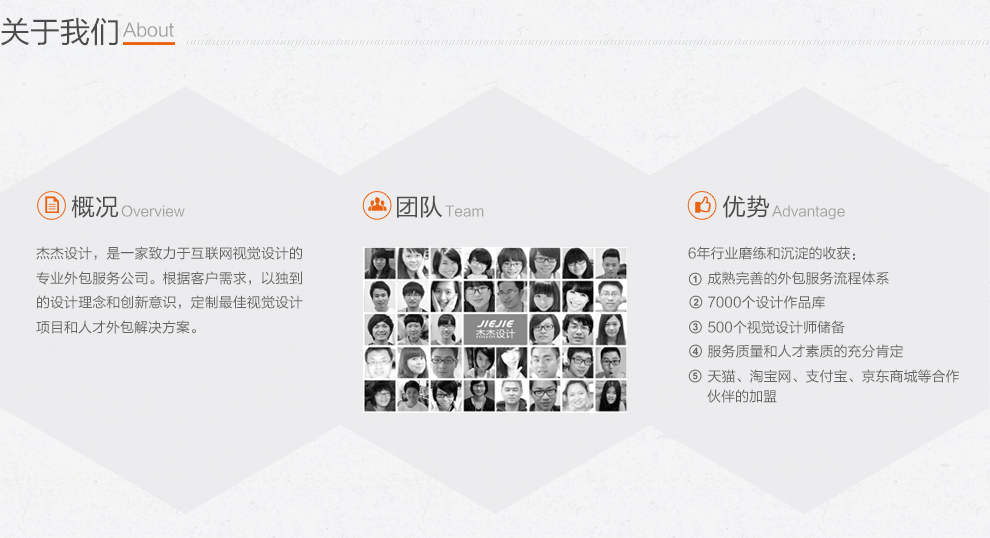
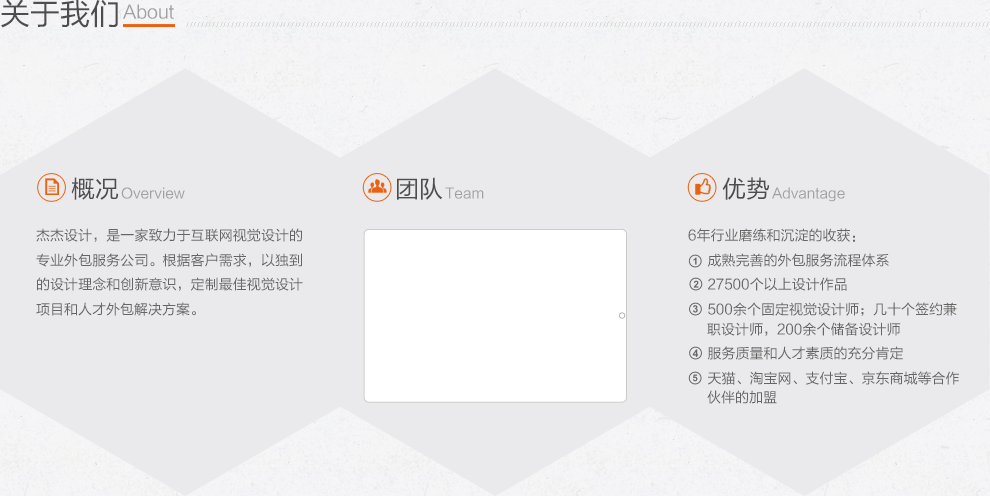
首页导航修改

diff --git a/static/index.htm b/static/index.htm
@@ -11,17 +11,14 @@
 
 <div id="header">
     <img class="logo" src="/global/images/logo.png" alt="杰杰设计">
-    <!--<ul>
-        <li id="about-nav">关于我们</li>
-        <li id="wedo-nav">我们能做</li>
-        <li id="portfolio-nav" class="checked">设计作品</li>
-        <li id="design-nav">设计师</li>
-        <li id="contact-nav">联系我们</li>
-    </ul>-->
-    <img src="/global/images/nav.png" usemap="#Map" class="nav">
-    <map name="Map"><area shape="rect" class="notify-contact" coords="480,3,583,33" href="#copy-right"><area shape="rect" coords="360,2,463,32" href="#show"><area shape="rect" coords="242,2,345,32" href="#portfolio"><area shape="rect" coords="118,2,221,32" href="#what-we-do">
-        <area shape="rect" coords="3,3,106,33" href="#about">
-    </map>
+
+    <p>
+        <a href="#about" id="about-nav">关于我们</a>
+        <a href="#what-we-do" id="wedo-nav">我们能做</a>
+        <a href="#portfolio" id="portfolio-nav">设计作品</a>
+        <a href="#show" id="design-nav">设计师</a>
+        <a href="#copy-right" class="notify-contact" id="contact-nav">联系我们</a>
+    </p>
 </div>
 
 <div id="banner">
@@ -35,10 +32,10 @@
             <div class="scroller">
                 <div class="ks-switchable-content">
                     <div class="banner contact"
-                         style="background-image: url(/file/50f258368d1858a03b002867)"><p><a
+                         style="background-image: url(http://www.jeef.com.cn:1280/file/50f258368d1858a03b002867)"><p><a
                             href="#copy-right" class="notify-contact">联系我们</a></p></div>
                     <div class="banner"
-                         style="background-image: url(/file/50f2d637d5c2a5ad4b00000d)"></div>
+                         style="background-image: url(http://www.jeef.com.cn:1280/file/50f2d637d5c2a5ad4b00000d)"></div>
                 </div>
             </div>
         </div>
@@ -152,7 +149,7 @@
                 var container = DOM.get('#ks-switchable-content');
                 var li = '';
                 S.each(data.docs, function (item) {
-                    li += '<div class="pic" data-id="' + item._id + '" style="background-image:url(/file/' + item._id + ')"></div>'
+                    li += '<div class="pic" data-id="' + item._id + '" style="background-image:url(/file/' + item._id + '_24)"></div>'
                 });
                 DOM.html(container, li);
                 //通过DOM元素新建旋转木马
@@ -195,7 +192,7 @@
 <script type="tpl" id="tpl">
     {{#each docs as item index}}
     <b class="pic-container" data-id="{{item._id}}"><span class="pic"
-                                   style="background-image:url(/file/{{item._id}}_170)"></span></b>
+                                                          style="background-image:url(/file/{{item._id}}_170)"></span></b>
     {{/each}}
 </script>
 
@@ -430,11 +427,6 @@ KISSY.use("gallery/template/1.0/,dom,event,ajax,anim", function (S, Template, DO
             next();
         });
 
-
-        Event.on('#team', 'click', function () {
-            dialog.set('bodyContent', '<div id="fixed-image"><i></i><a href="http://www.jeef.com.cn:1280/file/50f29d76c8d870f843000007" target="_blank"><img src="http://www.jeef.com.cn:1280/file/50f29d76c8d870f843000007_670" /></a></div> ');
-            show()
-        });
 
         Event.on(window, 'resize scroll', center);
 

diff --git a/assets/global/global.css b/assets/global/global.css
@@ -11,28 +11,67 @@
     top: 26px;
 }
 
-#header ul {
+#header p {
     position: absolute;
-    right: 0;
+    right: 1em;
     bottom: 0;
+    margin: 0;
+    padding: 0;
 }
 
-#header ul li {
-    float: left;
-    margin: 0 19px;
-    border-bottom: solid 4px #f4f4f6;
-    padding: 0 21px 8px 21px;
+#header p a {
+    display: inline-block;
+    background: url(/global/images/nav.png) no-repeat;
+    width: 110px;
+    text-indent: -999em;
+    overflow: hidden;
 }
 
-#header ul li.checked {
-    border-color: #eb610f;
+#header p #about-nav {
+    background-position: 29px 0;
+}
+
+#header p #about-nav:hover {
+    background-position: 29px -29px;
+}
+
+#header p #wedo-nav {
+    background-position: -89px 0;
+}
+
+#header p #wedo-nav:hover {
+    background-position: -89px -29px;
+}
+
+#header p #portfolio-nav {
+    background-position: -212px 0;
+}
+
+#header p #portfolio-nav:hover {
+    background-position: -212px -29px;
+}
+
+#header p #design-nav {
+    background-position: -336px 0;
+}
+
+#header p #design-nav:hover {
+    background-position: -336px -29px;
+}
+
+#header p #contact-nav {
+    background-position: -456px 0;
+}
+
+#header p #contact-nav:hover {
+    background-position: -456px -29px;
 }
 
 body {
     background: url(/global/images/body-bg.png);
 }
 
-#header img.nav{
+#header img.nav {
     position: absolute;
     right: 0;
     bottom: 0;

diff --git a/assets/home/home.css b/assets/home/home.css
@@ -35,8 +35,7 @@
 #show .scrollable .prev,
 #show .scrollable .next,
 #point,
-#banner-switch .scroller .contact p a,
-#team {
+#banner-switch .scroller .contact p a {
     background-image: url(/global/images/sprites.png);
 }
 
@@ -572,14 +571,12 @@
 
 #team {
     position: absolute;
-    width: 264px;
-    height: 158px;
-    left: 368px;
-    top: 239px;
+    width: 244px;
+    height: 154px;
+    left: 372px;
+    top: 237px;
     overflow: hidden;
-    background-position: -9999em -9999em;
-    background-repeat: no-repeat;
-    cursor: pointer;
+    border: solid 1px #eee;
 }
 
 .ks-ext-close {
